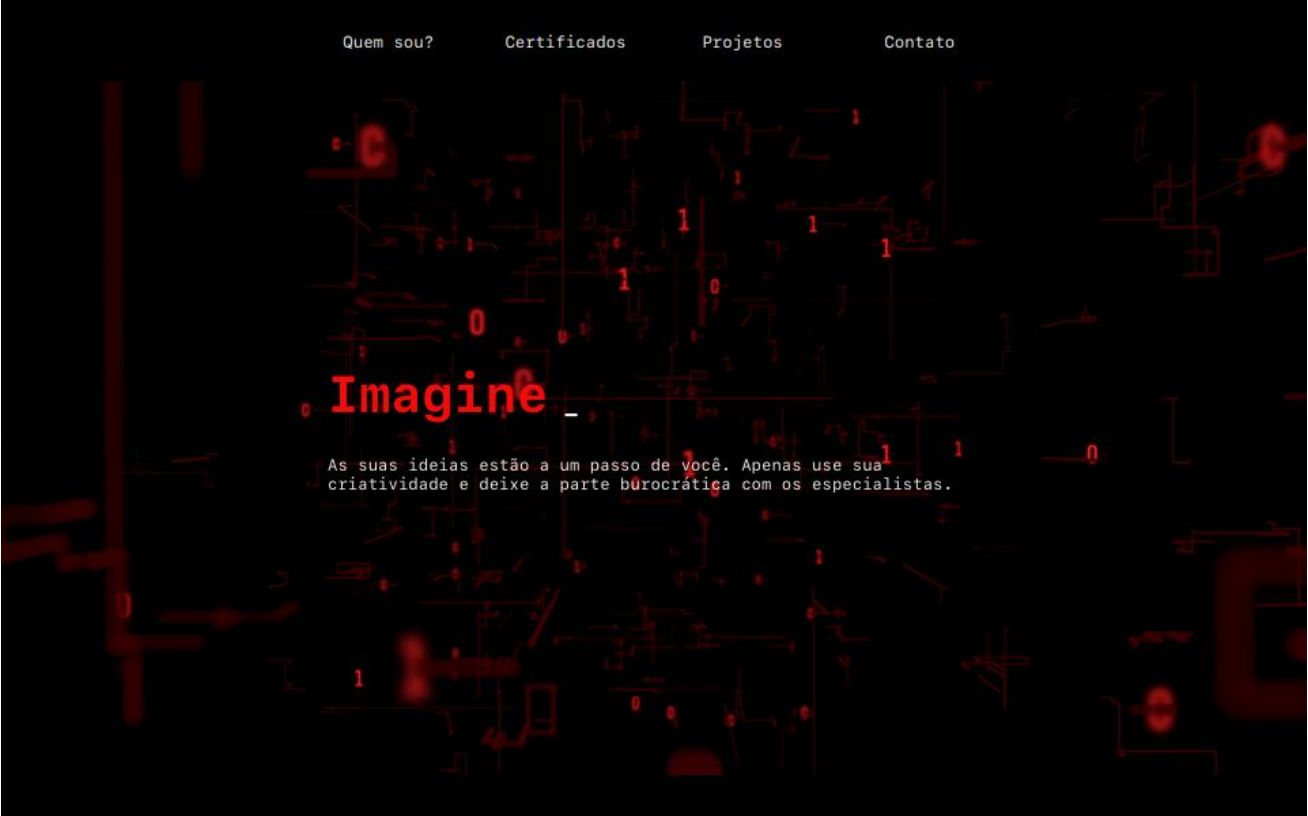
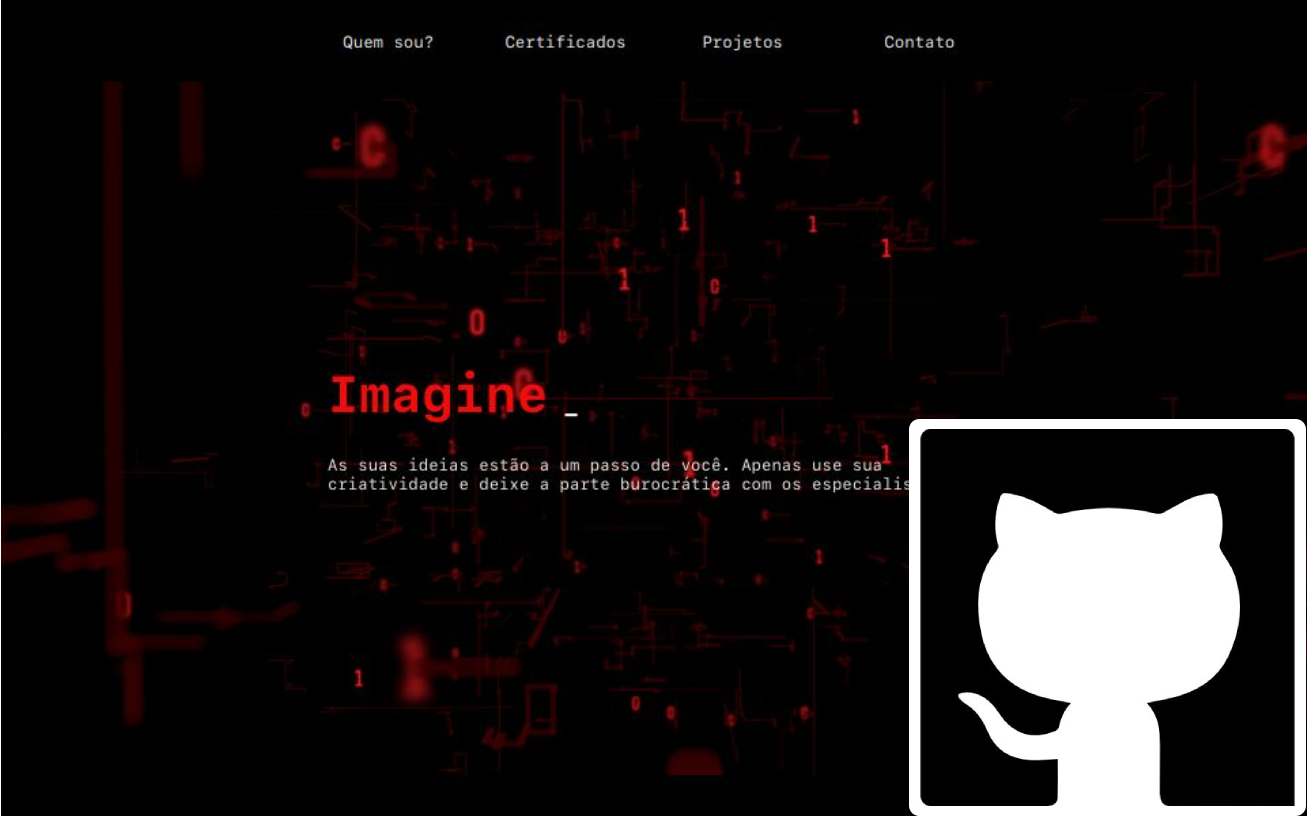
refazendo o Portofilio atual colocando github

Changed region(s): [[0.6728, 0.4902, 1.0, 1.0]]

diff --git a/index.html b/index.html
@@ -71,9 +71,9 @@
                     <img class="projetos__imagem__item" src="img/login-site.png" alt="jogo-numero-secreto">
                     <h3 class="projetos__imagem__tituloitem"><span class='tituloitem_span'>[Site] </span>Layout Login site</h3>
                 </a>
-                <a class="projetos__imagem__ancora" href="https://portifolio-teste-wine.vercel.app">
+                <a class="projetos__imagem__ancora" href="https://github.com/DotViegas/portifolio-empregatec">
                     <img class="projetos__imagem__item" src="img/segundo-portifolio.png" alt="jogo-numero-secreto">
-                    <h3 class="projetos__imagem__tituloitem"><span class='tituloitem_span'>[Site] </span>Portifólio Atual</h3>
+                    <h3 class="projetos__imagem__tituloitem"><span class='tituloitem_span2'>[GitHub] </span>Portifólio Atual</h3>
                 </a>
                 <a class="projetos__imagem__ancora" href="https://www.youtube.com/watch?v=1NgYCJZs1Ns">
                     <img class="projetos__imagem__item" src="img/animation-capa.png" alt="jogo-numero-secreto">

diff --git a/style/style.css b/style/style.css
@@ -281,6 +281,10 @@ strong{
     color: var(--cor-secundaria);
 }
 
+.tituloitem_span2{
+    color: indigo;
+}
+
 .animation__capa{
     color: #737500;
 }
